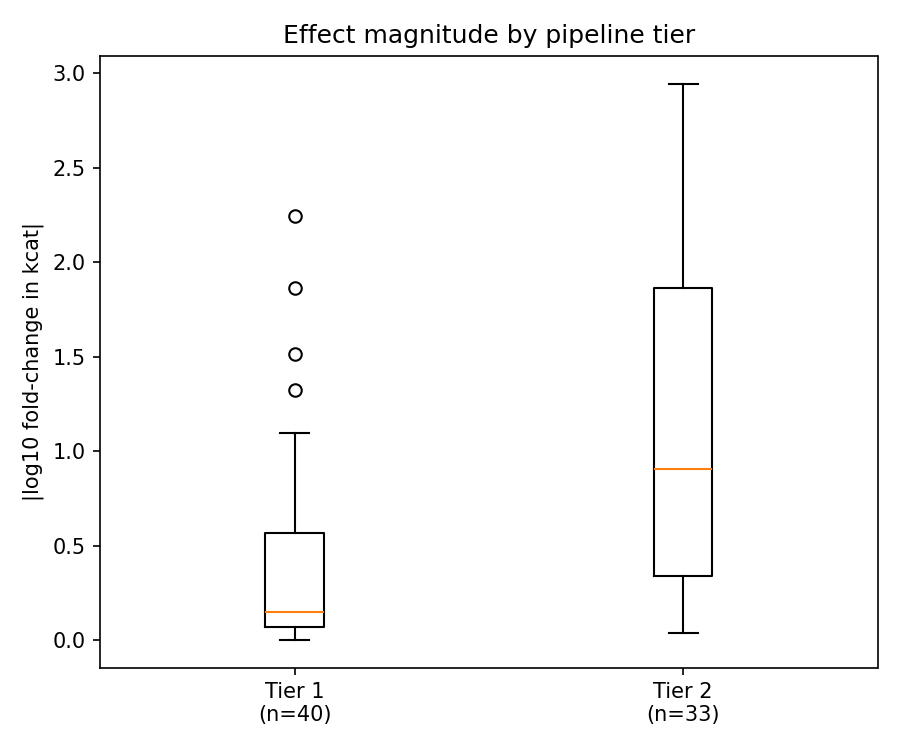
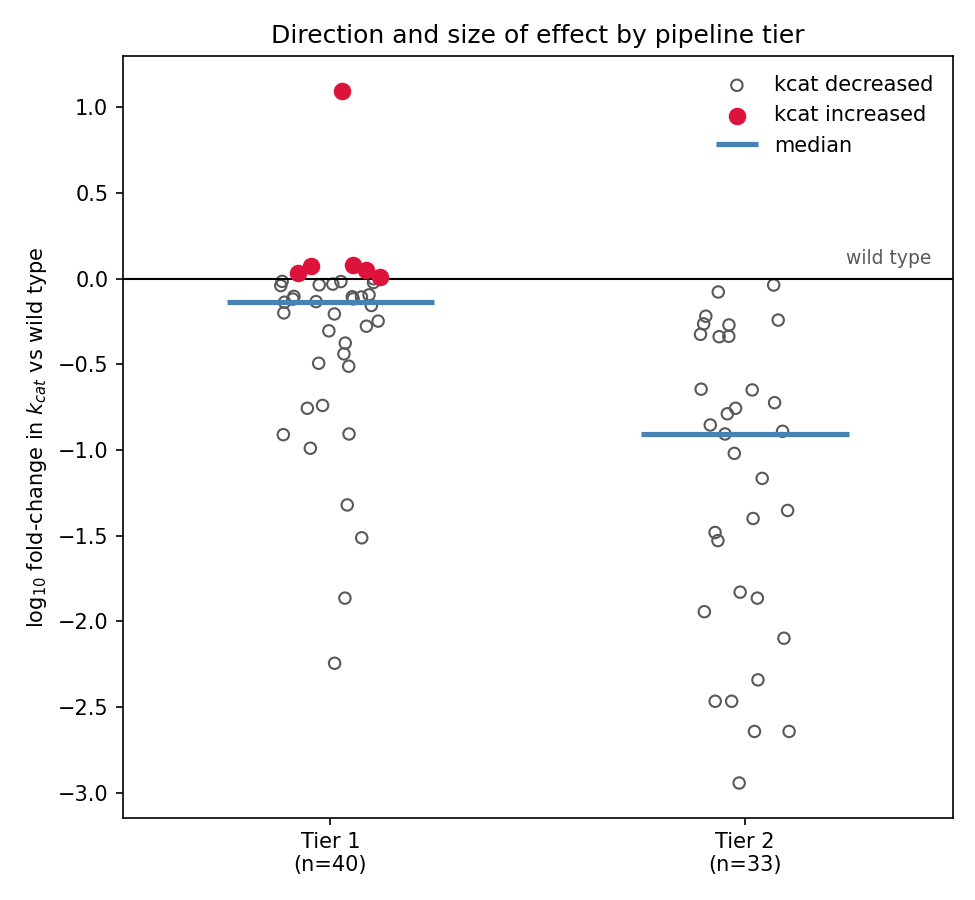
Validation notebook figures improved, warnings fixed, README edits

diff --git a/README.md b/README.md
@@ -3,6 +3,7 @@
 A reproducible workflow that takes an enzyme structure and returns a ranked, screenable set of mutation targets for improving catalytic activity.
 
 **Input:** a structure, a chain, and the catalytic residues.
+
 **Output:** candidate positions grouped by mechanistic hypothesis, ranked by evolutionary evidence, with structural and biophysical context for each position.
 
 **Key results**
@@ -106,11 +107,11 @@ That selection is independently corroborated: UniProt separately annotates subst
 
 ![Per-residue feature tracks and selection](results/A1CGD1_A/08_analysis/figures/multitrack_position_plot.png)
 
-*All 506 residues. The pLDDT cliff at around residue 25 marks the signal peptide; candidates are confined to 110 to 310, with nothing in the CBM42 module past 350. Tier 1 positions appear as isolated points flanking dense tier 2 blocks.*
+*All 506 residues. The pLDDT cliff at around residue 25 marks the signal peptide; candidates are confined to the 110 - 310 range, with nothing in the CBM42 module past 350. Tier 1 positions appear as isolated points flanking dense tier 2 blocks.*
 
 ![Candidate sets on the structure](results/A1CGD1_A/08_analysis/figures/A1CGD1_A_Candidates.png)
 
-*The same selection on the AlphaFold model, with the transferred arabinose in yellow. Catalytic residues are red, Set A orange, Set B purple, and the rest of the chain grey. Side chains are drawn for tier 1 positions only, which is why the tier 1 stretches read as the cluster of sticks around the pocket mouth. The CBM42 module, upper left, carries no candidates.*
+*The same selection on the AlphaFold model, with the transferred arabinose in yellow. Catalytic residues are red, Set A orange, Set B purple, and the rest of the chain grey. Side chains are drawn for tier 1 positions only. The CBM42 module, upper left, carries no candidates.*
 
 The highest-ranked candidate is **L196** (Set A rank 1): entropy 2.78, exposed loop, 4.07 Å from the catalytic residues, and arginine is *more* common at that column among homologs (31%) than the wild-type leucine (22%). FoldX predicts L196R to be mildly stabilising, at −0.94 kcal/mol.
 

diff --git a/RUNNING.md b/RUNNING.md
@@ -4,7 +4,7 @@
 
 Everything runs in WSL/Ubuntu **except the notebooks**, which run under Windows Jupyter reading the same files (`N:\...` from Windows is `/mnt/n/...` from WSL — one drive, two paths).
 
-| Step | Needs | Why |
+| Step | Needs | Reason |
 |---|---|---|
 | `01` | either | pure Python |
 | `02` | **WSL** | `mmseqs` |
